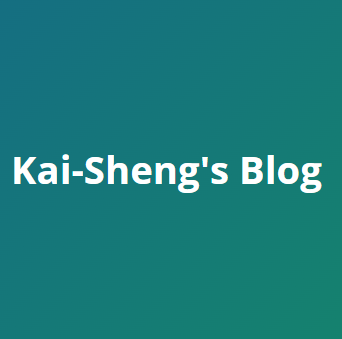
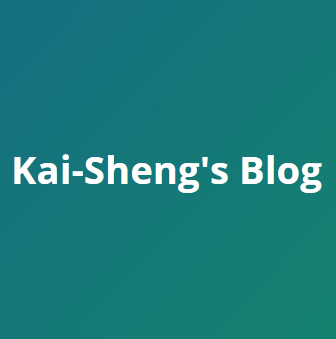
IMAGE

Changed region(s): [[0.0298, 0.4425, 0.9821, 0.59]]

diff --git a/_posts/2022-07-04-testability.md b/_posts/2022-07-04-testability.md
@@ -4,7 +4,7 @@ title: "如何提高程式碼的可測試性 (Testability)"
 author: "Kai-Sheng"
 permalink: /articles/testability
 categories: [Design, Unit-testing]
-image: /assets/image/site-image.png
+image: /assets/image/site-image-small.png
 --- 
  
 眾所皆知，寫單元測試有非常多好處，但有些主管會問，為什麼寫測試會讓工程師額外花這麼多時間？除了本身對單元測試技術不熟悉以外，追根究柢是因為產品程式碼的可測試性太低，導致工程師寫測試時很難將精力投入在對的地方，甚至導致放棄寫單元測試。要寫出優秀的單元測試有一定的難度與門檻，關鍵就在於工程師要思考如何提高程式碼的可測試性，進而讓寫單元測試變得簡單。本文將介紹提高 Java 單元測試可測試性的教學。

diff --git a/_posts/2022-05-02-dry-principle.md b/_posts/2022-05-02-dry-principle.md
@@ -4,7 +4,7 @@ title: "軟體設計原則 DRY (Don't repeat yourself)"
 author: "Kai-Sheng"
 permalink: /articles/dry-principle
 categories: [Design]
-image: /assets/image/site-image.png
+image: /assets/image/site-image-small.png
 --- 
 
 **DRY (Don't repeat yourself)**，是敏捷開發的核心設計原則之一。DRY 原則規定，對於每個**知識**點，系統中都只有一個明確而權威的表示。這個原則倡導單一事實來源(single source of truth) 的哲學，適用於所有的軟體開發工作，包含文件、設計、測試。但此原則常常被誤解，不少人認為只要兩個程式片段長得一樣就是違反了 DRY  原則。事實上，有些情況中的重複並不是一件壞事，甚至有些沒有重複的程式卻違反 DRY 原則。本文將探討 DRY 原則的運用情境。

diff --git a/_posts/2022-01-06-why-powermock-is-bad.md b/_posts/2022-01-06-why-powermock-is-bad.md
@@ -6,7 +6,7 @@ meta: java,unit-test,powermock,mockito,design,interface
 author: "Kai-Sheng"
 permalink: /articles/drawback-of-powermock
 categories: [Design, Unit-testing]
-image: /assets/image/powermock.png
+image: /assets/image/site-image-small.png
 --- 
 
 我們在寫 Java 的單元測試時常會使用 mocking framework，因為它能幫助我們輕鬆建立 mocked object，不必再為了單元測試而寫假物件，也更容易對目標物件進行獨立測試，隔絕外部相依，而降低寫單元測試的負擔。目前有許多主流 mocking framework，如最受歡迎的 Mockito，以及本篇文章的主角 — PowerMock。

diff --git a/_posts/2022-06-01-object-mapper.md b/_posts/2022-06-01-object-mapper.md
@@ -4,7 +4,7 @@ title: "Jackson ObjectMapper 的錯誤用法"
 author: "Kai-Sheng"
 permalink: /articles/object-mapper
 categories: [Java]
-image: /assets/image/site-image.png
+image: /assets/image/site-image-small.png
 --- 
 
 ObjectMapper 是一個相當實用的工具，它可以幫助我們完成 JSON 和 Object 之間的轉換。ObjectMapper 的應用非常廣泛，Spring Framework 的序列化/反序列化就預設使用 ObjectMapper，可見其影響力。但畢竟使用的人多，錯誤的寫法也就層出不窮，如果沒有按照正確做法，將很容易導致問題，本文將描述如何避免與改善。

diff --git a/_posts/2022-05-17-misuse-of-java8-optional.md b/_posts/2022-05-17-misuse-of-java8-optional.md
@@ -5,7 +5,7 @@ tagline: ""
 author: "Kai-Sheng"
 permalink: /articles/misuse-of-java-8-optional
 categories: [Design, Java]
-image: /assets/image/site-image.png
+image: /assets/image/site-image-small.png
 --- 
 
 我們都知道盡量不要回傳 null，而 Java 8 新加入了 Optional 類別可避免 NullPointerException 問題與繁瑣的 null check，可以讓程式邏輯看起來更簡潔、易讀，也能清楚表達 method 可能沒有結果值。但我卻看到了不少錯誤的用法，反而讓 Optional 顯得多此一舉。本篇探討這些錯誤的用法，以及如何正確使用。

diff --git a/_posts/2022-03-06-spring-profile-with-maven-package.md b/_posts/2022-03-06-spring-profile-with-maven-package.md
@@ -6,7 +6,7 @@ meta: java,spring,maven,intellij,profile
 author: "Kai-Sheng"
 permalink: /articles/spring-profile-with-maven-package
 categories: [Maven, Spring]
-image: /assets/image/spring-maven-index.png
+image: /assets/image/site-image-small.png
 ---
 
 在 Spring 專案中，profile 是用於區分各種環境的，例如本機環境、開發環境、測試環境、正式環境等等。本文介紹一個透過 profile 來達成自動適應環境的開發與部署方式。此方法可以減少不必要的人工步驟，從開發到部署，透過指令就可以輕易完成。

diff --git a/_posts/2022-04-21-log4j2-to-csv-for-excel.md b/_posts/2022-04-21-log4j2-to-csv-for-excel.md
@@ -5,7 +5,7 @@ tagline: ""
 author: "Kai-Sheng"
 permalink: /articles/log4j2-to-utf8-csv-for-excel
 categories: [Java]
-image: /assets/image/log4j.png
+image: /assets/image/site-image-small.png
 --- 
 
 我最近在 Java 專案中使用 Log4j2 做即時日誌並輸出 CSV，輸出完成後，文字編輯器打開一切正常，但以 Excel 開啟時卻出現亂碼，明明是 UTF-8，怎麼還會有亂碼呢? 查資料後才發現原來 CSV 的檔頭沒有帶著 BOM (byte-order mark) 導致。本文介紹兩種解決辦法。

diff --git a/_posts/2022-05-23-simple-date-format.md b/_posts/2022-05-23-simple-date-format.md
@@ -5,7 +5,7 @@ meta: java
 author: "Kai-Sheng"
 permalink: /articles/simple-date-format
 categories: [Java]
-image: /assets/image/site-image.png
+image: /assets/image/site-image-small.png
 --- 
 
 開發 Java 專案時經常操作時間、日期與字串的互相轉換，最常見簡單的方式是使用 SimpleDateFormat，想必大家對它不陌生。雖然它簡單易用，如果沒有正確使用，在一般環境下使用通常不會出錯，但在高併發（High Concurrency）的環境下就可能會出現異常。

diff --git a/_posts/2022-07-14-kiss-principle.md b/_posts/2022-07-14-kiss-principle.md
@@ -4,7 +4,7 @@ title: "軟體設計原則 KISS (Keep it simple, stupid)"
 author: "Kai-Sheng"
 permalink: /articles/kiss-principle
 categories: [Design]
-image: /assets/image/site-image.png
+image: /assets/image/site-image-small.png
 --- 
 
 **KISS （Keep it simple, stupid）** 是軟體開發中相當重要且實用的原則，意思是盡可能用簡單、直觀的手段或思維去解決困難的問題，並且避免加入不必要的複雜性。一言以蔽之就是「大道至簡」。

diff --git a/_posts/2022-01-20-anti-pattern-of-java-interface-impl-style.md b/_posts/2022-01-20-anti-pattern-of-java-interface-impl-style.md
@@ -5,7 +5,7 @@ tagline: ""
 author: "Kai-Sheng"
 permalink: /articles/anti-pattern-of-java-interface-impl-style
 categories: [Java, Design]
-image: /assets/image/site-image.png
+image: /assets/image/site-image-small.png
 --- 
 
 在 Java 專案中，應該不少人看過或寫過只有一個實作(implementation) 的介面 (interface)，並且以 **Interface-Impl** 的風格普遍存在，如下圖的 FooImpl, BarImpl, ServiceImpl，

diff --git a/_posts/2022-04-06-yagni-principle.md b/_posts/2022-04-06-yagni-principle.md
@@ -5,7 +5,7 @@ tagline: ""
 author: "Kai-Sheng"
 permalink: /articles/yagni-principle
 categories: [Design]
-image: /assets/image/yagni.png
+image: /assets/image/site-image-small.png
 --- 
 
 
